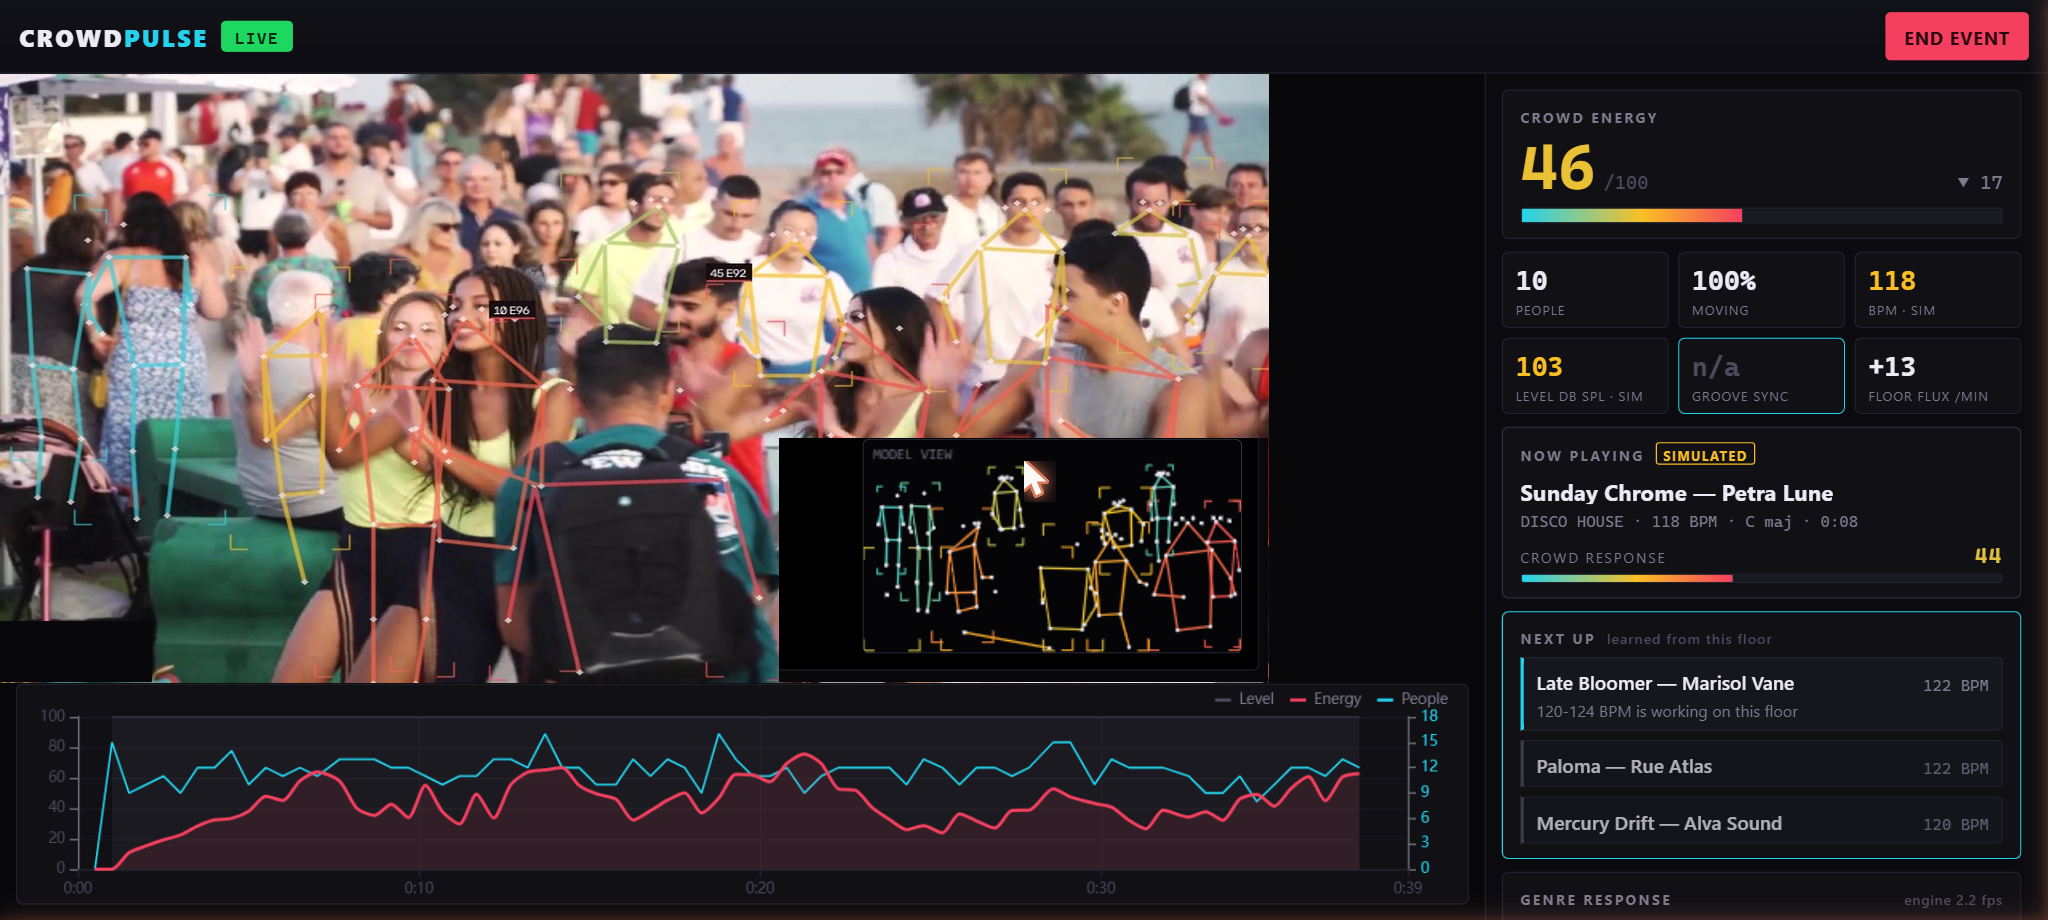
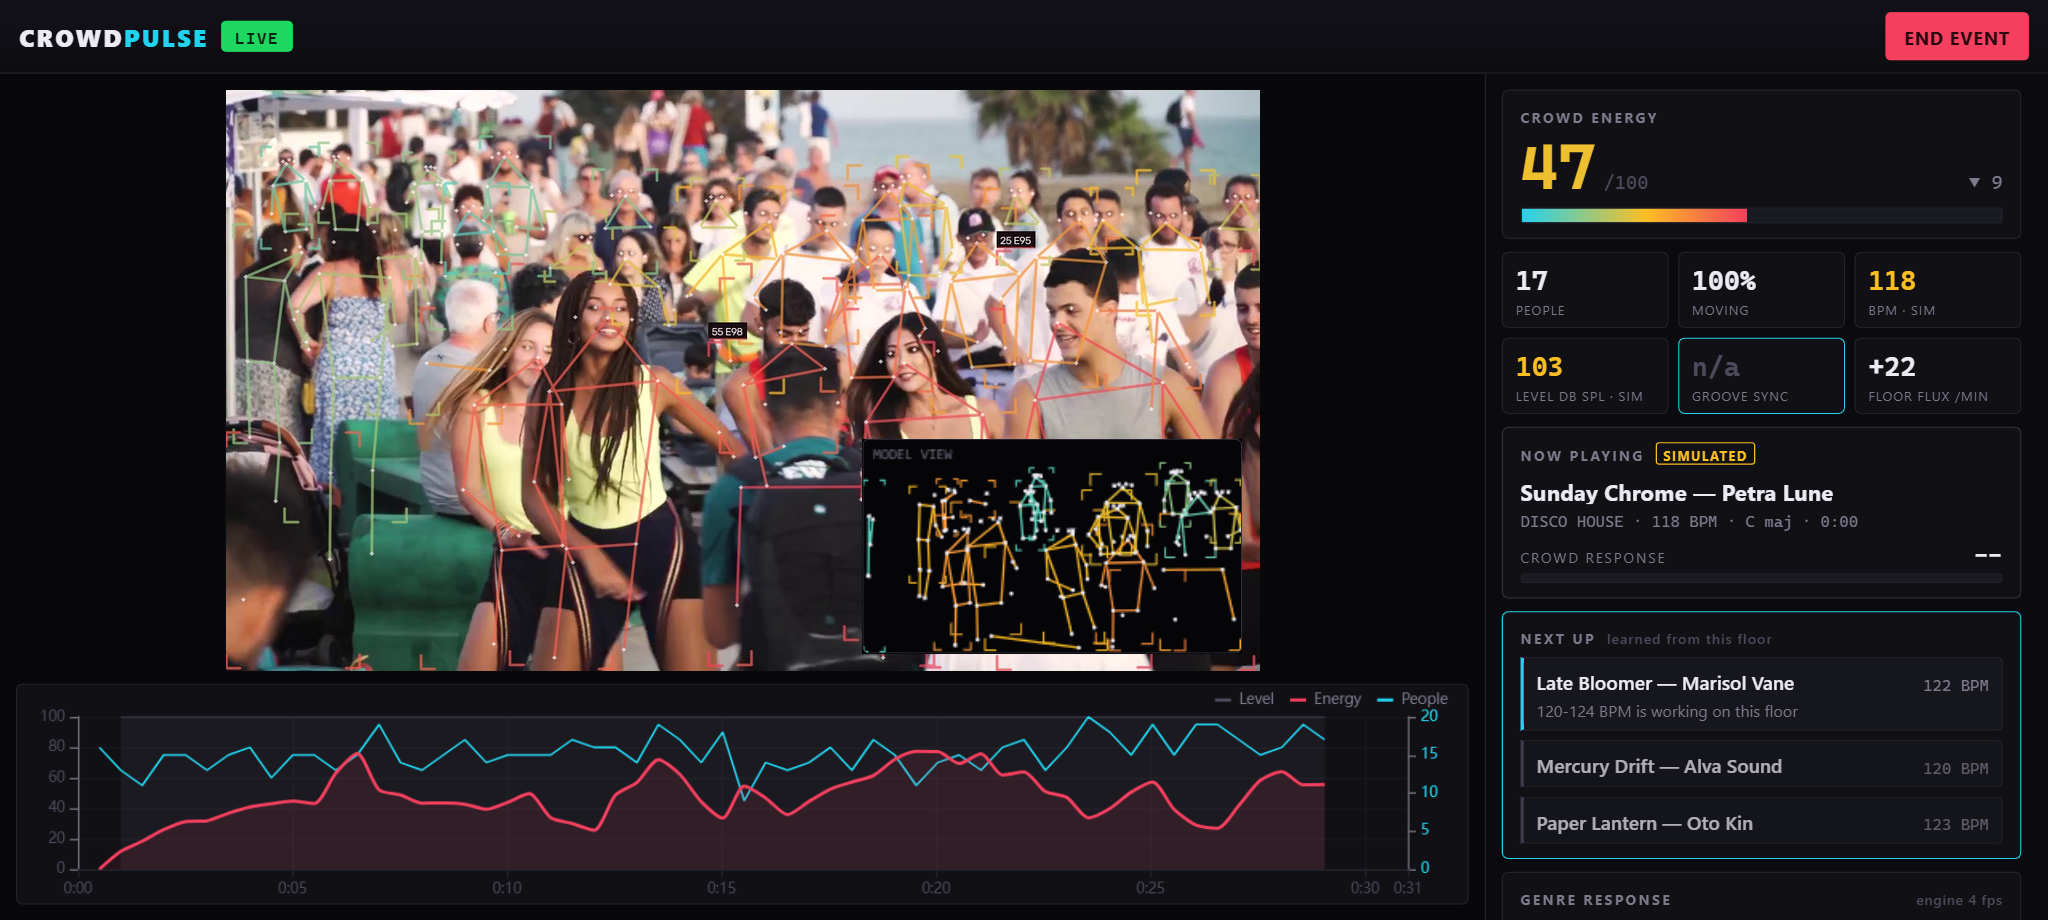
Crowd mode: 2x more people detected, and a documented quality/speed dial
Detection size turned out to be the real ceiling, not the footage: on the same
clip, raising det_imgsz from 640 to 1280 takes the model from ~15 to ~34 people,
picking up the whole back of the crowd instead of just the front row.

- det_imgsz default 640 -> 960 (~20 people at ~6 fps), with the measured
  quality/speed trade-off documented in config.yaml and the README
- flow_width 320 -> 384 to match the larger analysis frame
- README media regenerated in crowd mode: ~30 skeletons, and the colour ramp
  still separates dancers (hot) from spectators (cold) with nothing labelled

diff --git a/README.md b/README.md
@@ -112,6 +112,18 @@ Model weights (~7 MB) download on first run into `models/`. Click **START
 EVENT** and pick any video of a crowd. Nothing is stored: uploads are wiped on
 start and on each new file.
 
+**Detection size is the main quality/speed dial** (`det_imgsz` in `config.yaml`).
+On the demo clip, measured on a laptop CPU with no GPU:
+
+| `det_imgsz` | People found | Inference |
+|---|---|---|
+| 640 | ~15 | ~90 ms |
+| **960 (default)** | **~20** | ~180 ms |
+| 1280 (crowd mode) | ~27–34 | ~240 ms |
+
+The stills in this README use crowd mode. Because display and analysis run on
+separate threads, raising it costs detection latency, never video smoothness.
+
 Headless check, no browser:
 
 ```bash
